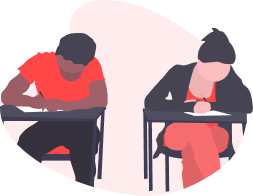
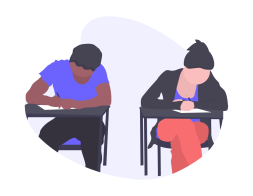
color change

diff --git a/src/Components/Landing/land.js b/src/Components/Landing/land.js
@@ -66,7 +66,7 @@ export default function Lands() {
       </div>
       <div className="flexes">
         <div className="sb">
-          <img src="images/undraw_certification_aif8.svg" alt="service 1"></img>
+          <img src="images/undraw_certification_aif8.png" alt="service 1"></img>
           <b>
             <p>Service 1</p>
           </b>
@@ -87,7 +87,7 @@ export default function Lands() {
         </div>
         <div className="sb">
           <img
-            src="images\undraw_predictive_analytics_kf9n 1.png"
+            src="images\undraw_predictive_analytics_kf9n.png"
             alt="service 1"
           ></img>
           <b>
@@ -176,7 +176,7 @@ export default function Lands() {
           <div className="downdiv">
             <div>
               {" "}
-              <img src="images\undraw_learning_2q1h 1.png" alt="download2"></img>
+              <img src="images\undraw_learning_2q1h.png" alt="download2"></img>
             </div>
             <div className="downtext">
               <p>

diff --git a/src/Components/Footer/footerpath.css b/src/Components/Footer/footerpath.css
@@ -1,6 +1,6 @@
 .outer {
     color: #FFFFFF;
-    background-color: #FF4747;
+    background-color: #276678;
   }
   .flexing1 {
     display: flex;
@@ -18,7 +18,7 @@
   .web {
     text-align: right;
     padding: 2%;
-    color: #3F3D56;
+    color: #d1ced4;
     padding-top: 0%;
   }
   .copyright {
@@ -26,7 +26,7 @@
     padding-bottom: 0%;
   }
   .copyright span {
-    color:#3F3D56;
+    color:#d1ced4;
   }
 
   @media screen and (max-width:56rem){

diff --git a/src/Components/Headerf/header.js b/src/Components/Headerf/header.js
@@ -8,7 +8,7 @@ export default function Headers(){
 return(
 <div>
 {/* hii */}
-<Navbar collapseOnSelect expand="lg" style={{backgroundColor:"#ff4747"}}>
+<Navbar collapseOnSelect expand="lg" style={{backgroundColor:"#276678"}}>
   <Navbar.Brand href="#home" style={{color:"#05024F"}}>Education</Navbar.Brand>
   <Navbar.Toggle aria-controls="responsive-navbar-nav" />
   <Navbar.Collapse id="responsive-navbar-nav">

diff --git a/src/Components/Landing/land.css b/src/Components/Landing/land.css
@@ -29,7 +29,7 @@
   width: 70%;
 }
 .reds {
-  background-color: #ff4747;
+  background-color: #276678;
   margin-bottom: 5%;
   margin-top: 5%;
   padding-top: 4%;
@@ -97,7 +97,7 @@
   /*  margin: 0% 18%; */
 }
 .downbtn {
-  background-color: #ff4747;
+  background-color: #1687a7;
   border-radius: 20px;
   color: #ffffff;
   border: none;

diff --git a/src/App.css b/src/App.css
@@ -19,7 +19,7 @@
 }
 .redbn{
   color:white;
-  background-color: #FF4747;
+  background-color: #1687a7;
   outline: none;
   border: none;
   border-radius: 20px;
